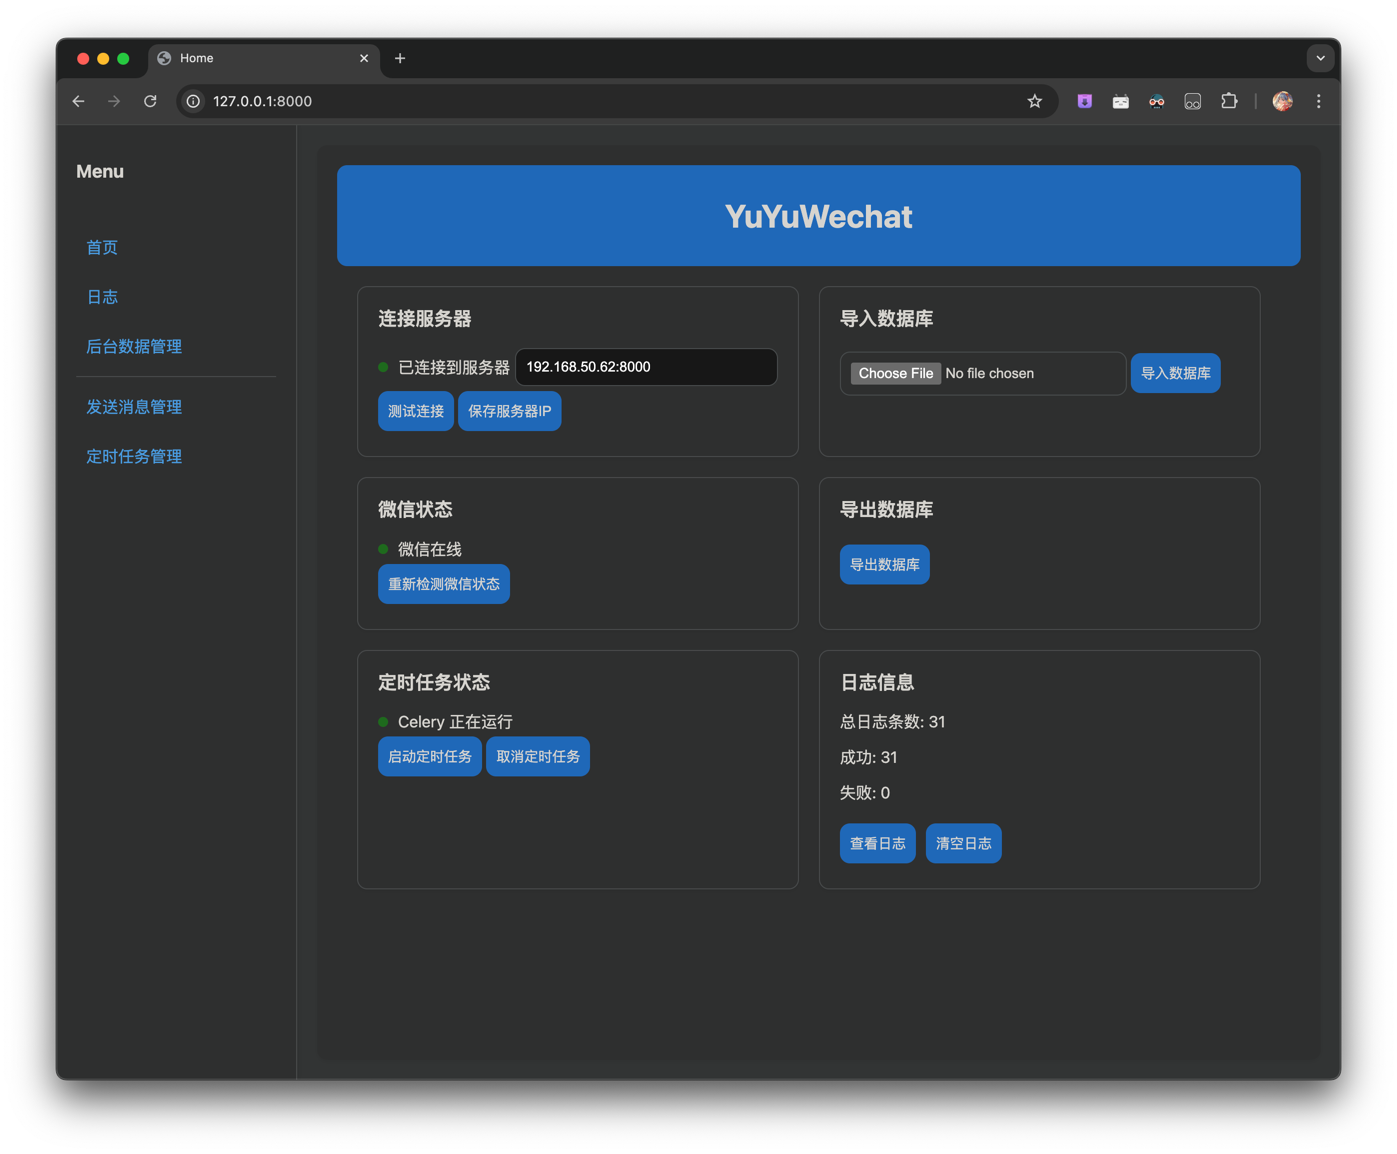
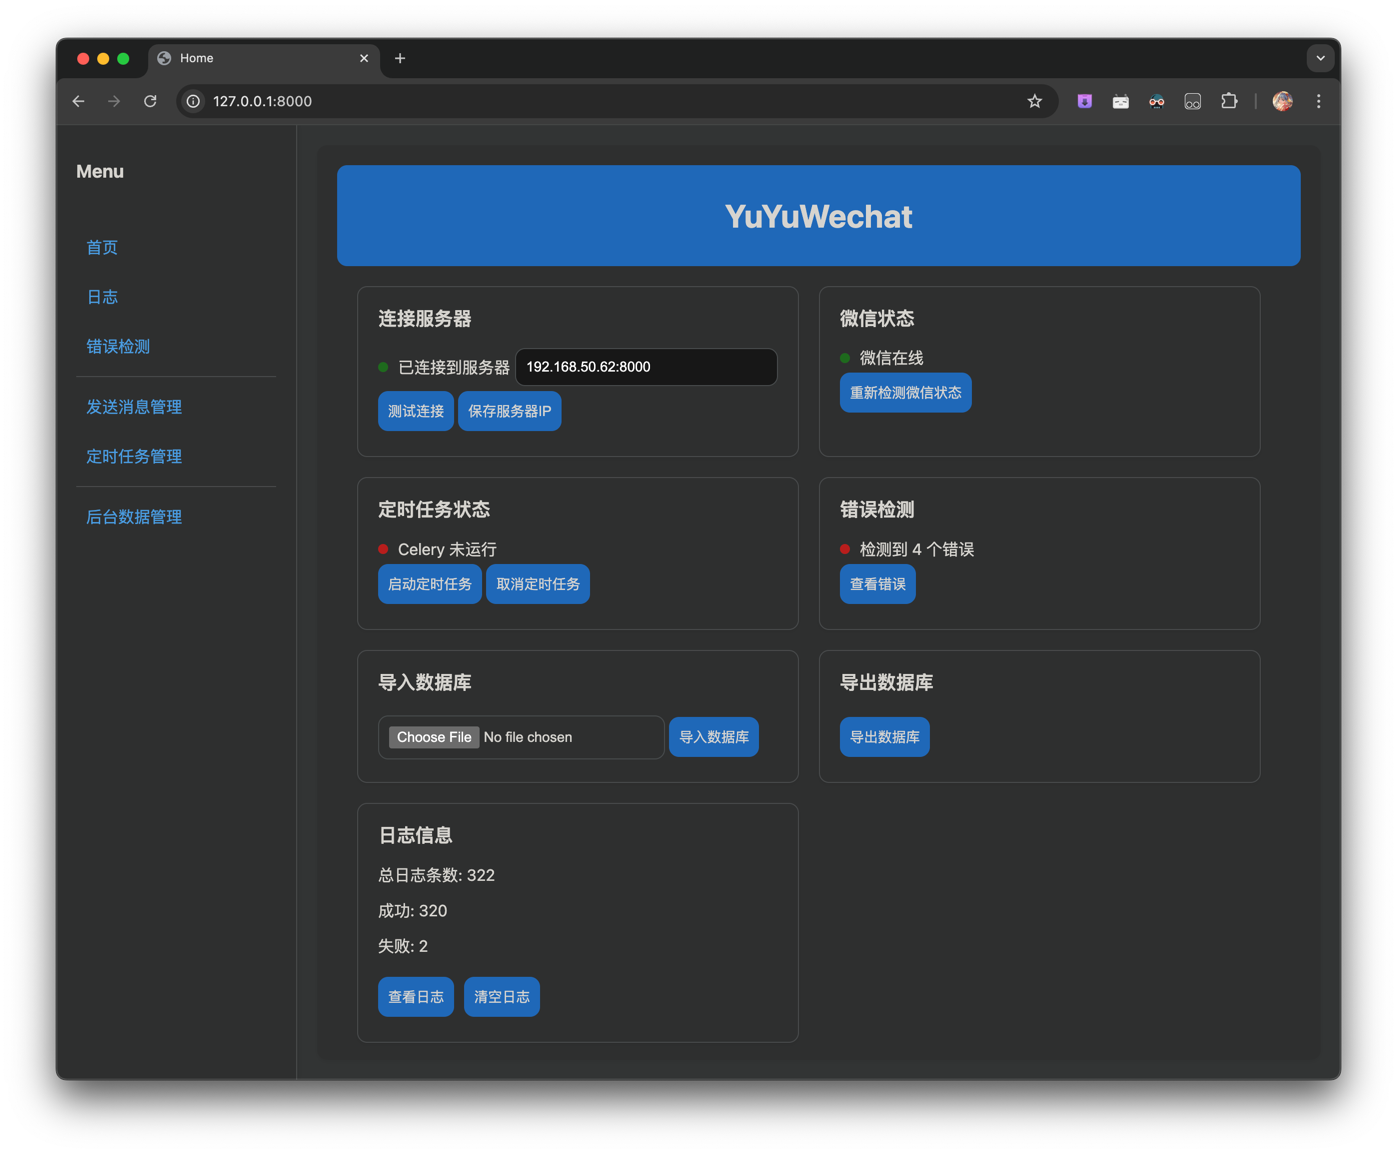
docs：更新readme

diff --git a/README.md b/README.md
@@ -11,6 +11,9 @@
 ![img_2.png](img/img_2.png)
 <h6 align="center">定时发送消息
 
+![img.png](img/img13.png)
+<h6 align="center">错误检测
+
 ![img_3.png](img/img_3.png)
 <h6 align="center">后台管理界面
 
@@ -19,6 +22,8 @@
 ✅自动发送消息：自动检查时间并在对应时刻发送消息🤖（基于cron表达式，可精确到分钟）
 
 ✅循环发送消息：cron表达式可设置任意循环作业🔄
+
+✅可靠性保证：日志记录以及自动错误检测，可保证定时任务不遗漏执行🔍
 
 ✅群发消息：一次性向多个好友发送不同的消息👥
 
@@ -46,12 +51,14 @@
 
 ## YuYuWechatV2_Client客户端
 
-![img_5.png](img/img_5.png)
+![img_5.png](img/img.png)
 客户端是一个轻量的前端，可以在任意平台上运行，通过网络请求发送消息给服务端
 
 ### 客户端功能
 
-- `首页`：连接服务器ip，导入导出数据库，启动定时任务
+- `首页`：功能概览
+- `日志`：查看客户端函数调用情况的日志，方便调试和检测错误
+- `错误检测`：检测客户端的各种功能是否正常以及定时任务是否遗漏
 - `发送消息管理`：批量发送消息
 - `定时任务管理`：定时发送消息
 - `数据管理界面`：管理数据库内容，编辑发送消息
